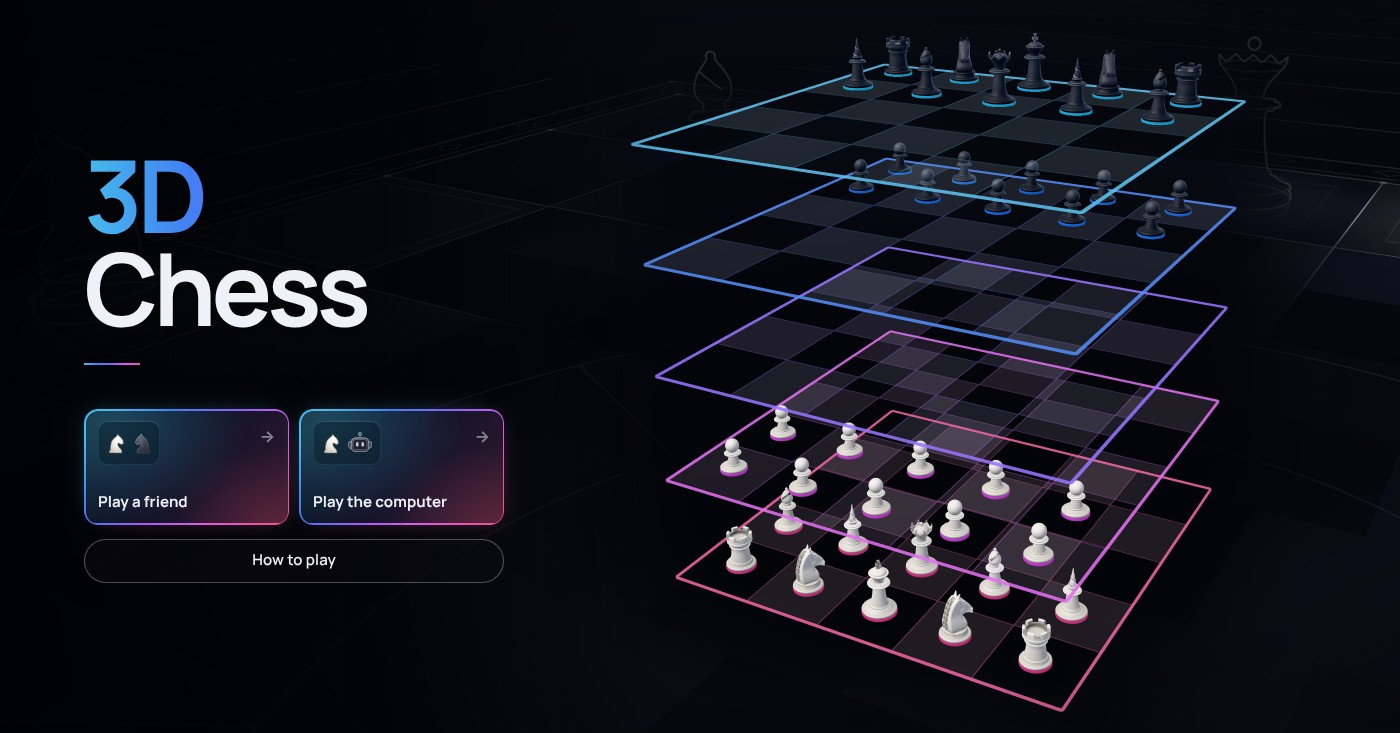
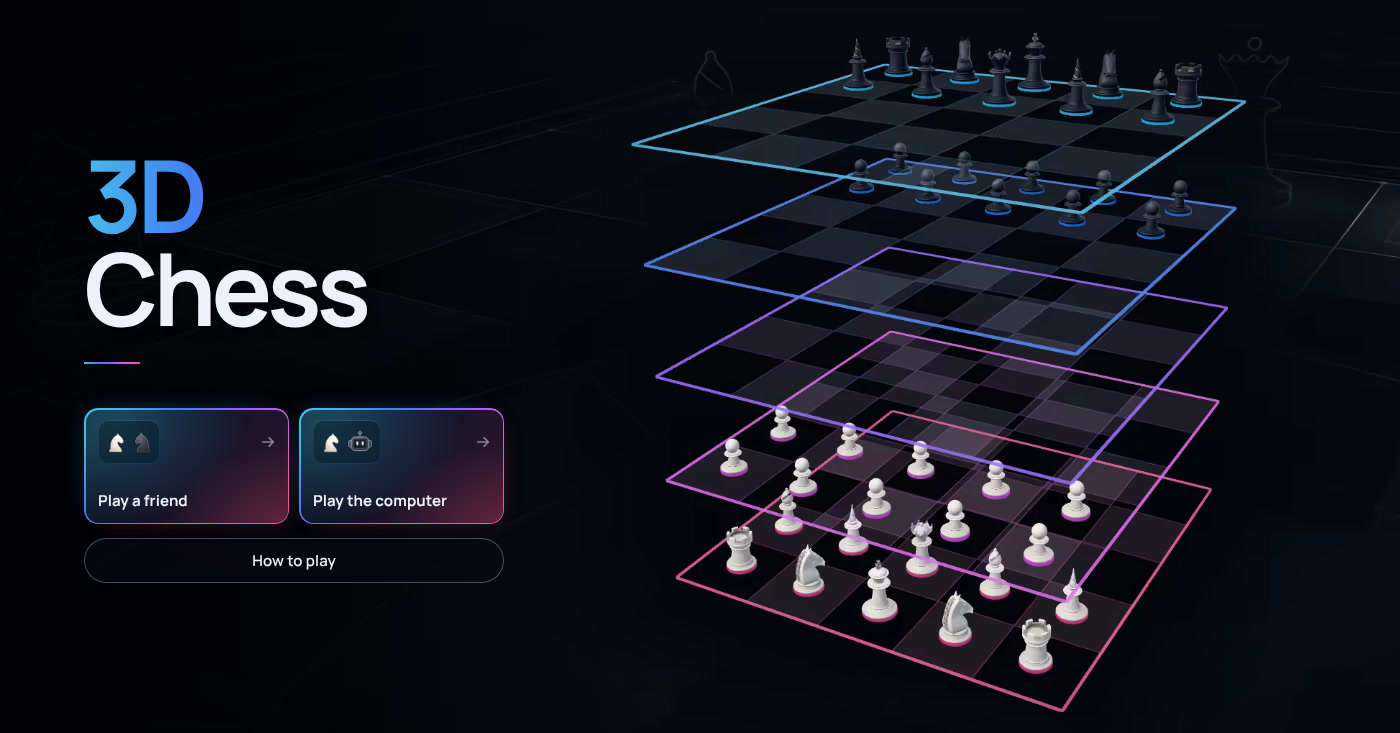
fix(client): the README's and link previews' picture is the start page's first frame (#173)
scripts/readme-image.mjs used to shoot the start page after the live preview had faded in over its picture. Now it shoots the page as it first paints, before three.js arrives: the pre-rendered picture from public/landing/ under the title and the ways in. It also encodes both images with full-resolution colour.

What changed:
- The script holds back the preview's chunk (LandingPreview.tsx in dev, assets/LandingPreview-<hash>.js in a build) by never answering its request. The page stays on its first frame, and the script fails if a canvas shows up.
- docs/preview.jpg is that frame at 2x, so the page loads the 2x picture. public/og.jpg is the frame as a 1x screen draws it, with the 1x picture; before, it was the 2x page scaled down.
- The script waits for fonts and the picture's decode, and no longer needs WebGL (SwiftShader) or the stepped clock.
- Chromium's JPEG screenshots store colour at half resolution (4:2:0), which blurs the thin neon edges, the gradient "3D" and the buttons' rims. The script now takes PNG screenshots and has ffmpeg encode them as 4:4:4 JPEG at -q:v 2, with -bitexact so the same frame writes the same bytes. --quality becomes --qscale.
- Both images are re-rendered. og.jpg: 132 KB at 38.8 dB PSNR -> 160 KB at 44.8 dB; preview.jpg: 343 KB at 42.9 dB -> 409 KB at 46.9 dB, against a lossless capture of the first frame.
[…]

diff --git a/CLAUDE.md b/CLAUDE.md
@@ -16,7 +16,7 @@ Client (run from `client/`):
 - `node scripts/pieces.mjs [--piece <type>] --out <dir>` — saves the piece gallery (`pieces.html`, dev only) as a PNG: every piece from the side, three-quarters and above, light and dark; needs only Vite running.
 - `node scripts/sculptures.mjs --target <square> [--orbit <deg>] --out <dir>` — the garden's neon sculptures up close through the dev-only viewer (`sculptures.html`): a sheet from several sides, or a turn round one; needs only Vite running.
 - `node scripts/landing-pictures.mjs` — re-renders `public/landing/{phone,tablet,wide}{,@2x}.{avif,webp}`, the start page's pictures of its preview, shown until the live preview fades in over them (ARCHITECTURE.md "Landing page"); starts its own Vite, no backend, ffmpeg encodes. Rerun and commit them after a visible change to the preview's opening (the tower, the pieces, the garden), with the README's picture: an out-of-date picture shows as a change at the handover.
-- `node scripts/readme-image.mjs` — re-renders `docs/preview.jpg`, the README's picture (the start page, the pieces on their starting squares before the demo's first move), and `public/og.jpg`, the same frame cut to 1.91:1 for link previews; starts its own Vite, no backend. Rerun and commit both after a visible change to the board or the start page.
+- `node scripts/readme-image.mjs` — re-renders `docs/preview.jpg`, the README's picture (the start page's first frame, before three.js arrives: its picture of the preview under the menu, the preview's chunk held back), and `public/og.jpg`, the same frame at 1x cut to 1.91:1 for link previews, both JPEG with full-resolution colour (4:4:4); starts its own Vite, no backend, ffmpeg encodes. Rerun and commit both after a visible change to the start page, after `landing-pictures.mjs` when the preview's opening changed.
 - `npm run bake:pieces` — rewrites `src/three/pieces/knight.medium.ts` and `src/three/scene/occlusion.medium.ts`, the medium knight's meshes and the medium set's occlusion, precomputed; run it after changing any piece's shape or the occlusion bake (`knightData.test.ts` / `occlusionData.test.ts` fail while they are stale). `golden.test.ts` pins the piece set's geometry by hash: a change meant only to be faster must leave it alone.
 - `node bench/run.mjs [--quick] [--primary] [--only client,server,browser] [--compare <dir>] [--repeat N] [--files engine --grep <case>]` (repo root) — the benchmark suite, each tier in turn, into `bench/out/RESULTS.md` (ARCHITECTURE.md "Benchmarks"), led by the primary rows (`bench/primary.mjs`: one per moment a player waits on, from the player's action to what they see). For a perf change use `--primary --base <ref>` (interleaved A/B of the primary rows against a worktree of that commit, about 13 minutes; report in `bench/out/AB.md`; without `--primary`, `--base` runs the tiers the diff can move; narrow with `--only client --files engine --grep <case>`): comparing against a saved run (`--compare`) is fooled when the shared VM's speed drifts between the runs, which A/A tests showed it does by 50–100% over minutes. The browser tier builds and serves the client and starts its own backend. Benchmark runs contend with anything else on the machine: run nothing else meanwhile. If the client tier stops on a fixture check, the engine's rules changed (run `npm run test`); `EXPECTED` in `client/bench/fixtures.ts` is only updated when a fixture changes on purpose. A new player moment, or one measured differently, goes in `bench/primary.mjs` with the row that measures it.
 - `npx prettier --write <file>` — `.prettierrc` is the style (single quotes, trailing commas, width 100). `npm run lint` runs `prettier --check .` (and on `bench/*.mjs`, which the root `.prettierrc` covers too) after ESLint, so CI fails on unformatted files; `.prettierignore` skips the generated `src/types/schema.ts`.

diff --git a/ARCHITECTURE.md b/ARCHITECTURE.md
@@ -1432,7 +1432,7 @@ Pages" check on pull requests.
 
 Link previews read `client/index.html`'s meta tags (title, description, and `og:image`,
 `public/og.jpg`: the README's picture cut to 1.91:1, written by `scripts/readme-image.mjs`
-from the same frame). A game's link is an invitation, so the build also writes
+from the start page's first frame, drawn at 1x). A game's link is an invitation, so the build also writes
 `invite.html`, the same page with the invitation's `og:title` and description
 (`invitePage` in `vite.config.ts`, which fails the build if a tag it replaces is missing), and
 `public/_redirects` has Cloudflare Pages serve it at `/game/*`; every other address gets
